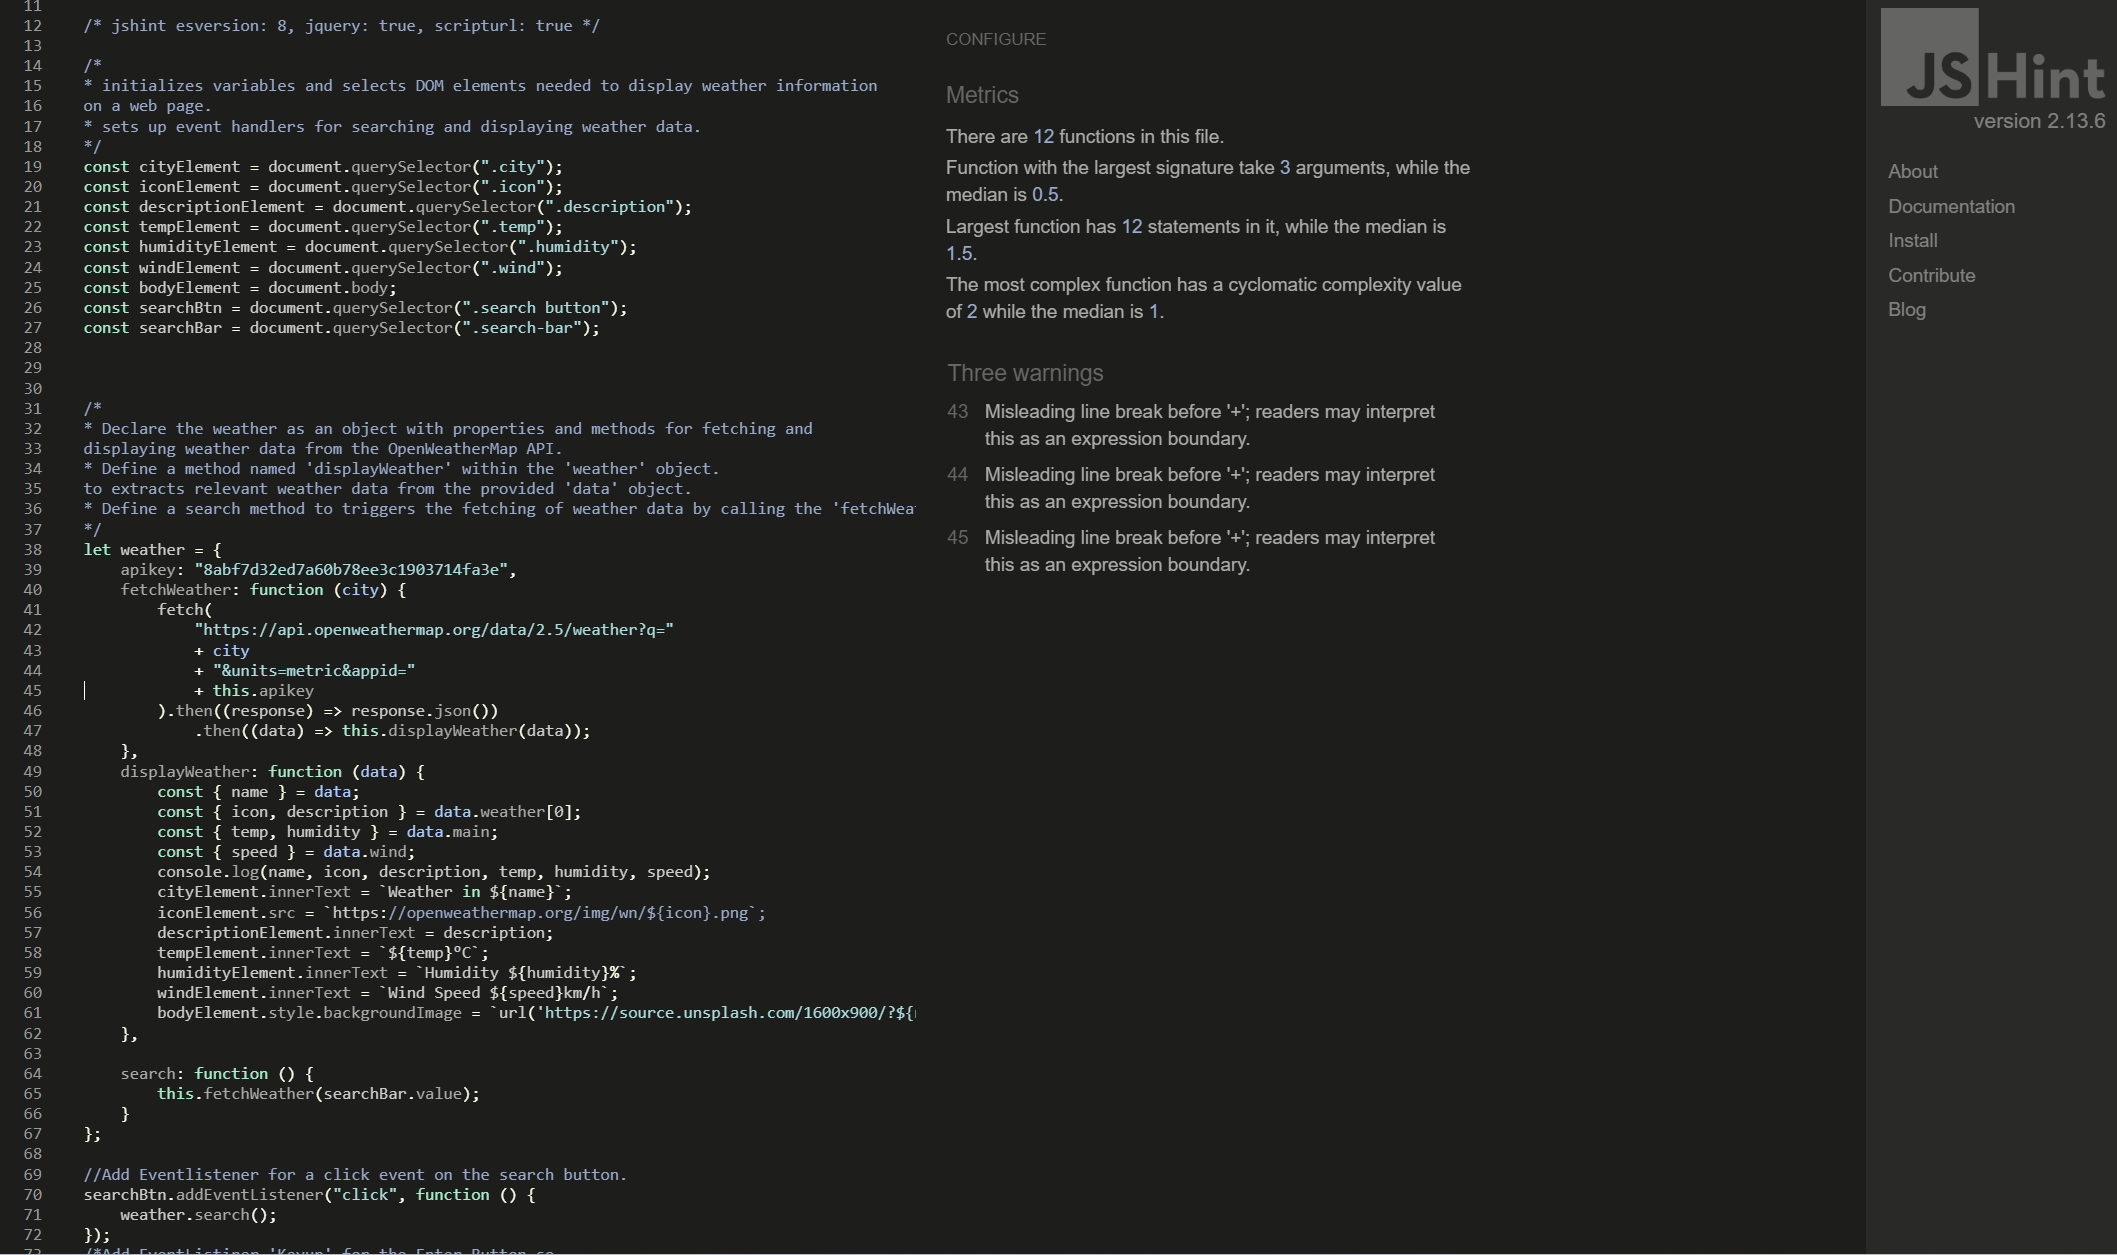
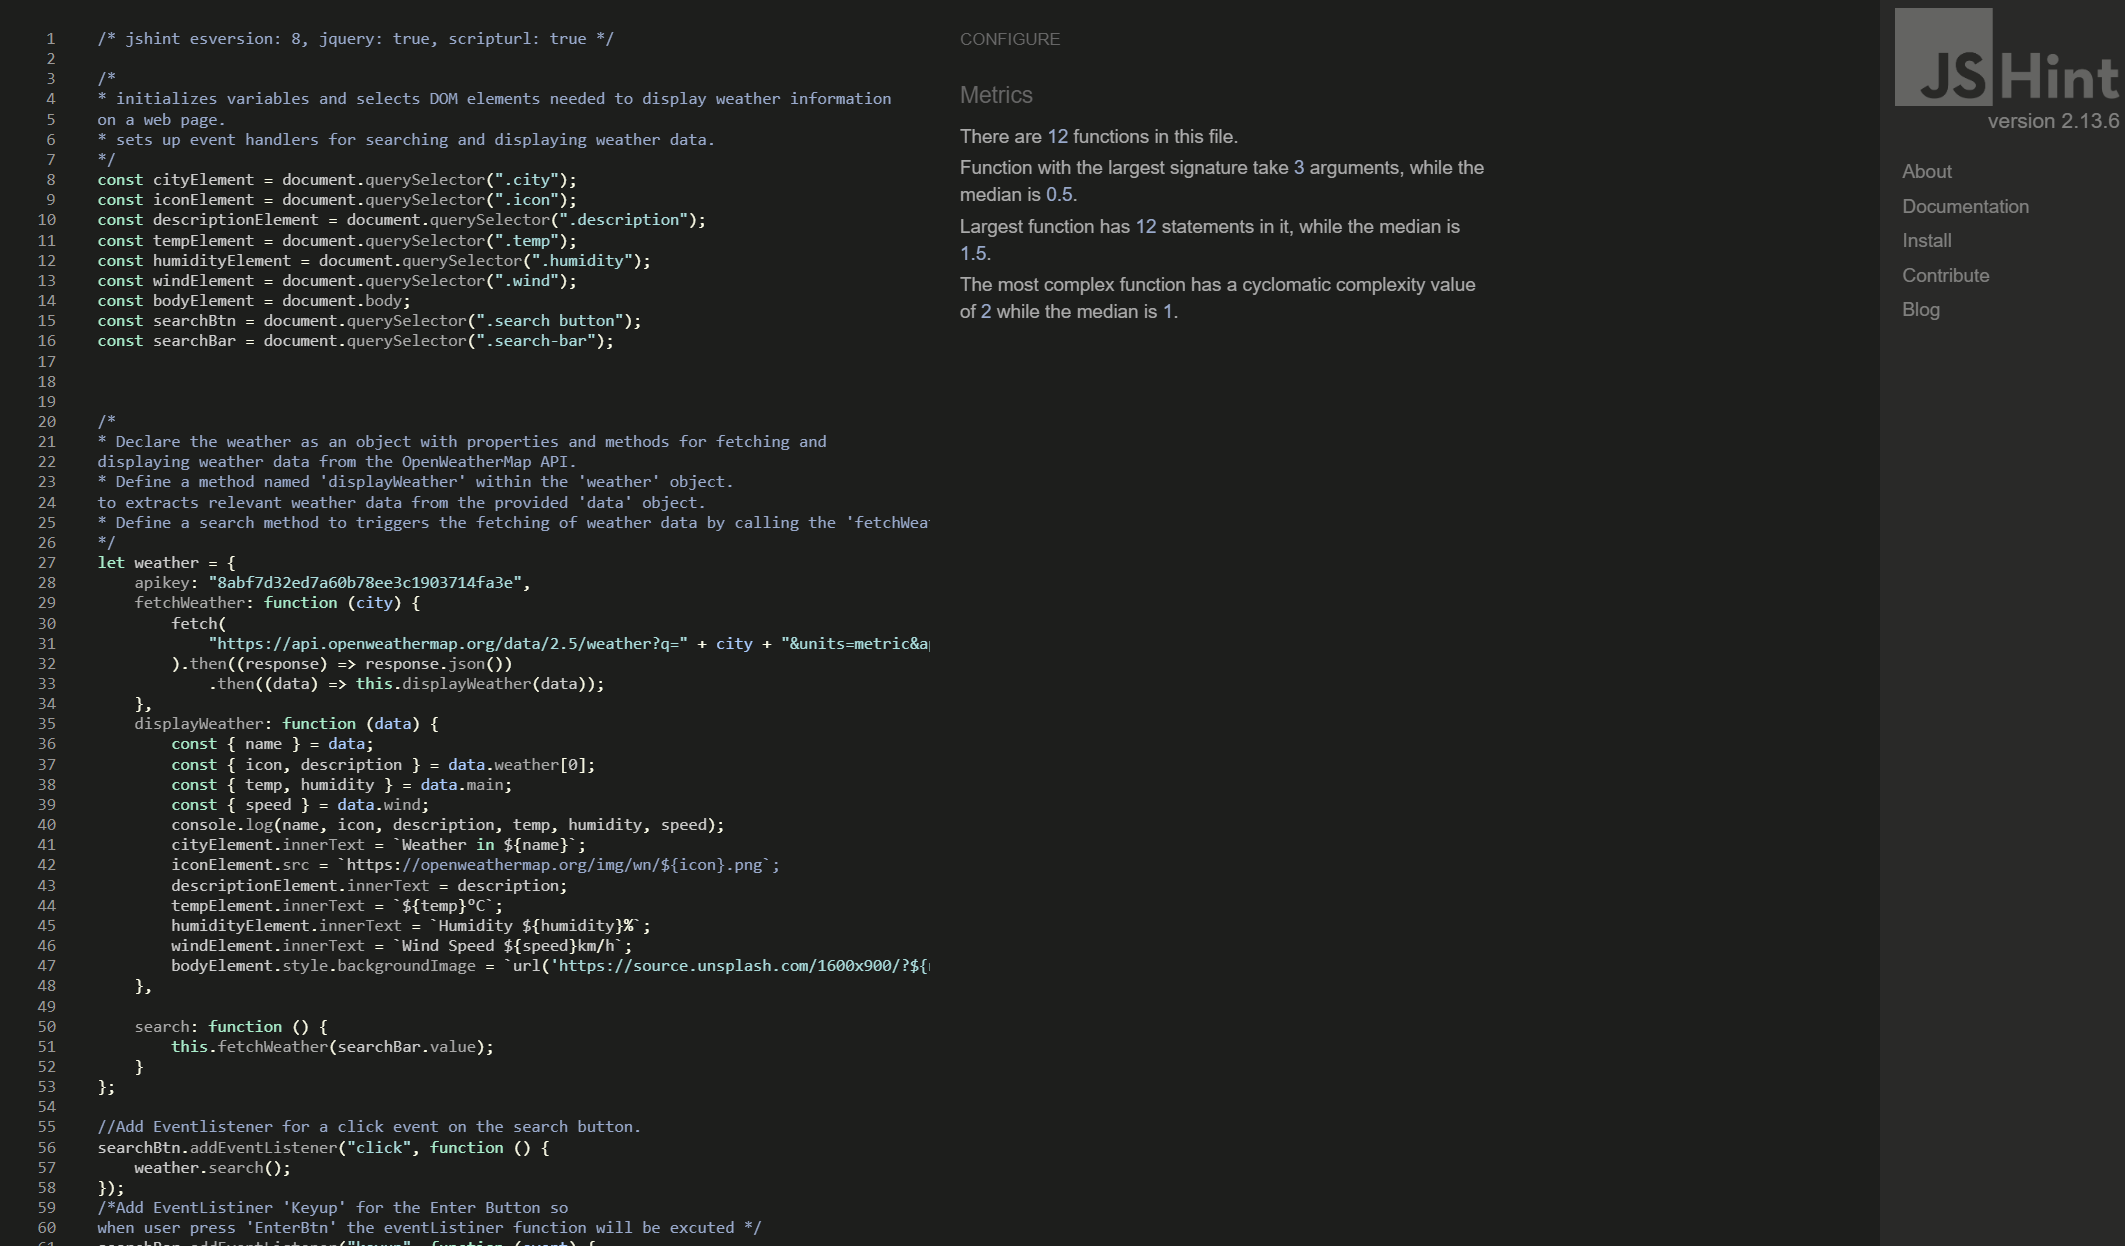
Edit js hint validator

diff --git a/README.md b/README.md
@@ -75,7 +75,7 @@ The site can be accessed by this [link](https://waseemrabah.github.io/weather_ap
   ![CSS Validator](documentation/css.validator.png)
 
 + ### JS
-  - No errors or warnings were found when passing through the official [JSHint](https://jshint.com/) validator except this warnings:
+  - No errors or warnings were found when passing through the official [JSHint](https://jshint.com/) validator.
 
 
   ![JSHint Validator](documentation/js_validator.png)
